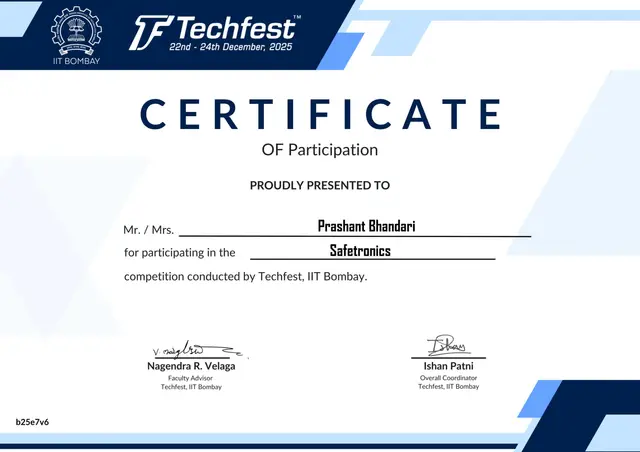
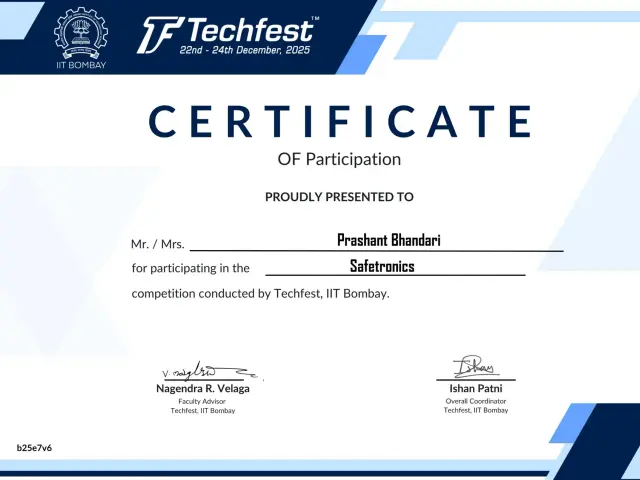
Fix SEO Site Checkup and Semrush issues: images, LCP, og:url, robots, HSTS
- Serve WebP everywhere on the home page: card covers pre-cut to the 16:10
  card box, 4:3 certificate thumbs, 128px square badges, 1800px lightbox
  images (scripts/make-web-images.cjs regenerates them). Fixes oversized
  images, JPEG/PNG and aspect-ratio failures
- Hero name, intro and portrait are visible in the server HTML (slide only,
  no fade from opacity 0) and the portrait is 880px with fetchpriority=high,
  so LCP no longer waits for JavaScript
- og:url on the home page; meta description 147 characters
- Drop the plaintext email from JSON-LD
- Clean robots.txt (one group per rule, no duplicate User-agent: * group)
- HSTS, X-Frame-Options and image caching headers in _headers
- Optional GA4 via NEXT_PUBLIC_GA_ID

diff --git a/src/components/Certificates.tsx b/src/components/Certificates.tsx
@@ -84,7 +84,7 @@ const certificates: Certificate[] = [
     title: 'General Member Certification',
     description:
       'Official membership certification recognizing active participation and contribution to the robotics club activities.',
-    image: '/images/GeneralMemberCertification.png',
+    image: '/images/GeneralMemberCertification.webp',
     alt: 'Robotics Club, Pashchimanchal Campus Certificate of Appreciation presented to Prashant Bhandari as General Member of the 19th Committee',
     category: 'leadership',
     date: 'March 2024 - March 2025',
@@ -95,7 +95,7 @@ const certificates: Certificate[] = [
     title: 'Yarsa Tech Experience Certificate',
     description:
       'Certificate of experience for completing Electronics Engineer Internship at Yarsa Tech, Pokhara. Gained hands-on experience in electronics engineering, PCB design, and embedded systems development.',
-    image: '/images/YarsaTechCertificationOfExperience.jpg',
+    image: '/images/YarsaTechCertificationOfExperience.webp',
     category: 'experience',
     date: 'January 2025 - July 2025',
     organization: 'Yarsa Tech, Pokhara',
@@ -105,7 +105,7 @@ const certificates: Certificate[] = [
     title: 'Delta Robothon Runner-Up',
     description:
       'Second place achievement in Delta Robothon competition, showcasing advanced robotics skills and innovation.',
-    image: '/images/DeltaRobothonRunnerUpCertification.jpg',
+    image: '/images/DeltaRobothonRunnerUpCertification.webp',
     category: 'competition',
     date: 'February 2025',
     organization: 'Delta Robothon',
@@ -115,7 +115,7 @@ const certificates: Certificate[] = [
     title: 'MeshMerize IIT Bombay',
     description:
       "Participation certificate from MeshMerize competition at IIT Bombay, one of India's premier technical institutes.",
-    image: '/images/MeshMerizeIITBombay.png',
+    image: '/images/MeshMerizeIITBombay.webp',
     category: 'competition',
     date: 'December 2024',
     organization: 'IIT Bombay',
@@ -125,7 +125,7 @@ const certificates: Certificate[] = [
     title: 'Karyashala Mentor Certification',
     description:
       'Certification for mentoring students in robotics and engineering projects at Karyashala workshop.',
-    image: '/images/KaryaShalaMentorCertification.jpg',
+    image: '/images/KaryaShalaMentorCertification.webp',
     category: 'mentorship',
     date: 'July 2024',
     organization: 'Karyashala & Engineer Without Borders',
@@ -135,7 +135,7 @@ const certificates: Certificate[] = [
     title: 'Mentorship Certification',
     description:
       'Recognition for outstanding mentorship and guidance provided to junior students in robotics and embedded systems.',
-    image: '/images/MentorShipCertification.jpg',
+    image: '/images/MentorShipCertification.webp',
     category: 'mentorship',
     date: '2024',
     organization: 'Educational Institution',
@@ -145,7 +145,7 @@ const certificates: Certificate[] = [
     title: 'Workshop by Lab448',
     description:
       'Completion certificate for advanced workshop conducted by Lab448, focusing on cutting-edge technology and innovation.',
-    image: '/images/WokshopBylab448.jpg',
+    image: '/images/WokshopBylab448.webp',
     category: 'workshop',
     date: '2024',
     organization: 'Lab448',
@@ -155,7 +155,7 @@ const certificates: Certificate[] = [
     title: 'Battle For Speed 2023 Winner',
     description:
       'First place winner in the Battle For Speed 2023 robotics competition with Voyager Line Follower Bot. Built advanced line-following robot with ultrasonic obstacle detection, optimized for speed and stability using advanced sensor integration.',
-    image: '/images/BattleForSpeed2023WinnerCertification.jpg',
+    image: '/images/BattleForSpeed2023WinnerCertification.webp',
     category: 'competition',
     date: 'March 2023',
     organization: 'Robotics Competition',
@@ -324,7 +324,7 @@ export default function CertificatesShowcase() {
                 >
                 <span className="cert__thumb">
                   <Image
-                    src={certificate.thumb ?? certificate.image}
+                    src={certificate.thumb ?? certificate.image.replace(/\.webp$/, '-thumb.webp')}
                     alt={certificate.alt ?? certificate.title}
                     fill
                     sizes="(max-width: 780px) 50vw, 15rem"

diff --git a/src/app/layout.tsx b/src/app/layout.tsx
@@ -40,7 +40,7 @@ const jetbrainsMono = localFont({
 
 const SITE = "https://bhandari-prashant.com.np";
 const DESCRIPTION =
-  "Electronics engineer in Nepal designing PCBs and firmware for robots, IoT and satellites. Seeking a robotics Master’s or PhD for Fall 2028.";
+  "Electronics engineer in Nepal designing PCBs and firmware for robots, IoT devices and satellites. Seeking a robotics Master’s or PhD for Fall 2028.";
 
 // Each page sets its own title, description and canonical; these are the defaults.
 // The share image comes from app/opengraph-image.tsx.
@@ -82,6 +82,8 @@ export const metadata: Metadata = {
   },
   openGraph: {
     type: "website",
+    // Subpages set their own openGraph (with their own url), so only the home page inherits this
+    url: "/",
     locale: "en_US",
     siteName: "Prashant Bhandari",
     title: "Prashant Bhandari — Electronics Engineer, PCBs & Robotics",
@@ -161,7 +163,8 @@ const jsonLd = {
         addressRegion: "Gandaki Province",
         addressCountry: "NP",
       },
-      email: "mailto:info@bhandari-prashant.com.np",
+      // No email here: a plaintext address in the HTML gets harvested (and fails
+      // security scanners). The Contact section's link is obfuscated by Cloudflare.
       award: [
         "1st Position, LOCUS 2025 Micromouse Competition",
         "2nd Position, Delta 5.0 Micromouse Competition",
@@ -189,6 +192,10 @@ const jsonLd = {
   ],
 };
 
+// Google Analytics 4. Set NEXT_PUBLIC_GA_ID (e.g. G-XXXXXXXXXX) in the build
+// environment (Cloudflare Pages → Settings → Variables) to turn it on.
+const GA_ID = process.env.NEXT_PUBLIC_GA_ID;
+
 export default function RootLayout({
   children,
 }: Readonly<{
@@ -210,6 +217,17 @@ export default function RootLayout({
           <style>{`[style*="opacity:0"]{opacity:1!important;transform:none!important}`}</style>
         </noscript>
         <script type="application/ld+json" dangerouslySetInnerHTML={{ __html: JSON.stringify(jsonLd) }} />
+        {GA_ID && (
+          <>
+            {/* async: never blocks rendering */}
+            <script async src={`https://www.googletagmanager.com/gtag/js?id=${GA_ID}`} />
+            <script
+              dangerouslySetInnerHTML={{
+                __html: `window.dataLayer=window.dataLayer||[];function gtag(){dataLayer.push(arguments)}gtag('js',new Date());gtag('config','${GA_ID}');`,
+              }}
+            />
+          </>
+        )}
       </head>
       <body className="relative overflow-x-hidden">
         <a href="#main-content" className="sr-only sr-only-focusable">

diff --git a/src/components/Hero.tsx b/src/components/Hero.tsx
@@ -19,6 +19,16 @@ const rise: Variants = {
   show: { opacity: 1, y: 0, transition: { duration: 0.6, ease: EASE } },
 }
 
+/*
+ * The name, the intro line and the portrait are the page's largest paint (LCP).
+ * They must be visible in the server HTML, not wait for JavaScript to fade them
+ * in, so they only slide — opacity stays at 1 from the first frame.
+ */
+const riseVisible: Variants = {
+  hidden: { y: 14 },
+  show: { y: 0, transition: { duration: 0.6, ease: EASE } },
+}
+
 const STATS = [
   { to: WORK.length, suffix: '', label: 'Projects' },
   { to: 7, suffix: '+', label: 'Awards' },
@@ -131,7 +141,7 @@ export default function Hero() {
               </span>
             </motion.div>
 
-            <motion.h1 variants={rise} className="display mb-5">
+            <motion.h1 variants={riseVisible} className="display mb-5">
               Prashant
               <br />
               Bhandari
@@ -146,7 +156,7 @@ export default function Hero() {
               </span>
             </motion.div>
 
-            <motion.p variants={rise} className="hero__lead mb-9">
+            <motion.p variants={riseVisible} className="hero__lead mb-9">
               I design PCBs and write the firmware that runs on them: robots, IoT
               devices and satellite subsystems, from schematic to a working board.
             </motion.p>
@@ -203,8 +213,8 @@ export default function Hero() {
             <motion.div
             className="hero__figure"
             style={{ y: portraitY }}
-            initial={{ opacity: 0, scale: 0.97 }}
-            animate={{ opacity: 1, scale: 1 }}
+            initial={{ scale: 0.97 }}
+            animate={{ scale: 1 }}
             transition={{ duration: 0.7, ease: EASE, delay: 0.15 }}
           >
             <Image
@@ -213,6 +223,7 @@ export default function Hero() {
               fill
               sizes="(max-width: 940px) 80vw, 27rem"
               priority
+              fetchPriority="high"
             />
             </motion.div>
 

diff --git a/src/components/Experience.tsx b/src/components/Experience.tsx
@@ -96,7 +96,7 @@ const ROLE_CERTIFICATES: Record<
 > = {
   'Electronics Engineer Intern': [
     {
-      certificateImage: '/images/YarsaTechCertificationOfExperience.jpg',
+      certificateImage: '/images/YarsaTechCertificationOfExperience.webp',
       title: 'Yarsa Tech Experience Certificate',
       description: 'Certificate of experience for Electronics Engineer Internship at Yarsa Tech',
     },
@@ -115,19 +115,19 @@ const ROLE_CERTIFICATES: Record<
   ],
   'General Member': [
     {
-      certificateImage: '/images/GeneralMemberCertification.png',
+      certificateImage: '/images/GeneralMemberCertification.webp',
       title: 'General Member Certification',
       description: 'Official membership certification for Robotics Club',
     },
   ],
   'Robotics Mentor': [
     {
-      certificateImage: '/images/KaryaShalaMentorCertification.jpg',
+      certificateImage: '/images/KaryaShalaMentorCertification.webp',
       title: 'Karyashala Mentor Certification',
       description: 'Certification for mentoring students in robotics projects',
     },
     {
-      certificateImage: '/images/MentorShipCertification.jpg',
+      certificateImage: '/images/MentorShipCertification.webp',
       title: 'Mentorship Certification',
       description: 'Recognition for outstanding mentorship in robotics',
     },

diff --git a/src/components/projects/ProjectCard.tsx b/src/components/projects/ProjectCard.tsx
@@ -9,17 +9,24 @@ const MORE_ICON: Record<CardLink['kind'], typeof Github> = { github: Github, pdf
 
 export const cardHref = (card: Card) => (card.writeup ? `/projects/${card.writeup}` : card.github)
 
+/**
+ * Card covers are pre-cut to the card's 16:10 box (scripts/make-web-images.cjs), so the
+ * browser downloads an 800px WebP instead of the full photo and nothing is
+ * cropped or stretched at display time. Contain-fit covers are padded on white.
+ */
+const cardImage = (src: string) => src.replace(/\.(jpe?g|png|webp)$/i, '-card.webp')
+
 /** Photo/render when there is one, otherwise a cover drawn in the category's colours */
 export function CardCover({ card, sizes }: { card: Card; sizes: string }) {
   if (card.image) {
     return (
       <Image
-        src={card.image.src}
+        src={cardImage(card.image.src)}
         alt={card.title}
         fill
         sizes={sizes}
         loading="lazy"
-        className={card.image.fit === 'contain' ? 'pj-cover-img--contain' : 'pj-cover-img'}
+        className="pj-cover-img"
       />
     )
   }

diff --git a/src/components/Projects.tsx b/src/components/Projects.tsx
@@ -16,17 +16,17 @@ const LISTED = ['mspm0-board', 'cubesat', 'loranet', 'heart-pcb', 'seven-segment
 
 const micromouseBadges = [
   {
-    certificateImage: '/images/BattleForSpeed2023WinnerCertification.jpg',
+    certificateImage: '/images/BattleForSpeed2023WinnerCertification.webp',
     title: 'Battle For Speed 2023 Winner',
     description: 'First place winner in Battle For Speed robotics competition',
   },
   {
-    certificateImage: '/images/DeltaRobothonRunnerUpCertification.jpg',
+    certificateImage: '/images/DeltaRobothonRunnerUpCertification.webp',
     title: 'Delta Robothon Runner-Up',
     description: 'Second place in Delta Robothon competition',
   },
   {
-    certificateImage: '/images/MeshMerizeIITBombay.png',
+    certificateImage: '/images/MeshMerizeIITBombay.webp',
     title: 'MeshMerize IIT Bombay',
     description: 'Participation in MeshMerize competition at IIT Bombay',
   },

diff --git a/src/components/CertificateBadge.tsx b/src/components/CertificateBadge.tsx
@@ -48,7 +48,13 @@ export default function CertificateBadge({
         aria-label={`View the ${title} certificate`}
         title={title}
       >
-        <Image src={certificateImage} alt={` certificate`} fill className="object-cover" />
+        <Image
+          src={certificateImage.replace(/\.webp$/, '-badge.webp')}
+          alt={`${title} certificate`}
+          fill
+          sizes="64px"
+          className="object-cover"
+        />
         <span
           className="absolute inset-0 grid place-items-center opacity-0 group-hover:opacity-100 transition-opacity duration-200"
           style={{ background: 'rgba(11,11,15,0.45)', color: '#fff' }}

diff --git a/src/app/globals.css b/src/app/globals.css
@@ -1568,10 +1568,6 @@ p { text-wrap: pretty; }
 
 .pj-card__cover:has(.pj-cover-img--contain) { background: #fff; }
 
-/* phones: a shorter cover keeps more cards on screen */
-@media (max-width: 600px) {
-  .pj-card__cover { aspect-ratio: 2 / 1; }
-}
 
 .pj-cover-img,
 .pj-cover-img--contain { transition: transform 500ms var(--ease); }
